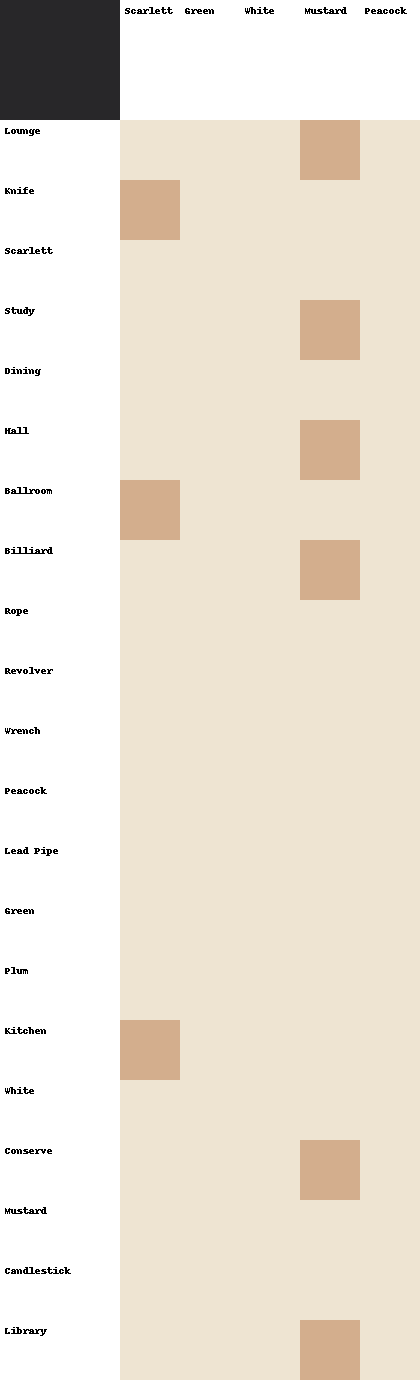
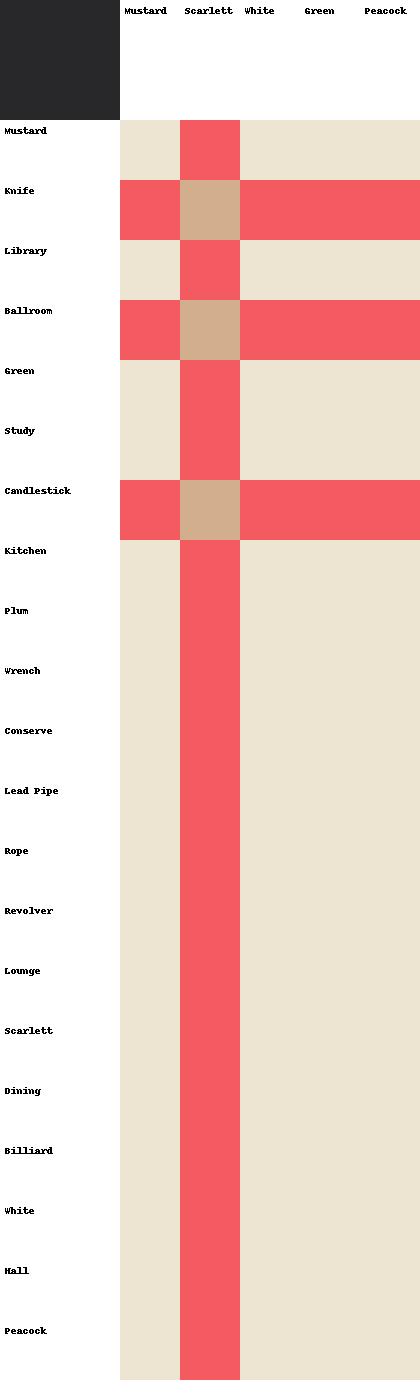
feat: add sidebar logic (treat as a hand, better input)

Changed region(s): [[0.2786, 0.0623, 1.0, 1.0], [0.7119, 0.9348, 0.8667, 1.0], [0.7119, 0.8101, 0.8667, 0.8725]]

diff --git a/detective_notes.py b/detective_notes.py
@@ -30,16 +30,23 @@ class DetectiveNotes(object):
         self.__notes = {
             player: {card: None for card in self.__cards} for player in self.__players
         }
+        # populate the sidebar with the initial data
+        self.__notes["Sidebar"] = {
+            card: card in self.__sidebar for card in self.__cards
+        }
 
     def denied_suggestion(self, player, suggestion):
         """
         Marks when a player denies a suggestion made by the CPU player.
+        NOTE: modifies the notes dictionary and thus calls __update.
 
         str player: player who denied the suggestion.
         (str, str, str) suggestion: suggestion made by the CPU player.
         """
         for card in suggestion:
             self.__notes[player][card] = False
+
+        self.__update()
 
     def draw(self, path=IMAGE_PATH):
         from PIL import Image, ImageDraw, ImageFont
@@ -168,11 +175,14 @@ class DetectiveNotes(object):
     def reveal_card(self, player, card):
         """
         Marks when a player's card is revealed.
+        NOTE: modifies the notes dictionary and thus calls __update.
 
         str player: player who revealed the card.
         str card: card that was revealed.
         """
         self.__notes[player][card] = True
+
+        self.__update()
 
     def __find_all_false(self, cards):
         """
@@ -254,7 +264,11 @@ class DetectiveNotes(object):
         """
         changes_made = False
         for player in self.__players:
-            if self.__notes[player].count(True) == self.__hand_size:
+            # count how many cards are True for the player
+            true_count = sum(
+                1 for card in self.__cards if self.__notes[player][card] is True
+            )
+            if true_count == self.__hand_size:
                 for card in self.__cards:
                     if self.__notes[player][card] is None:
                         self.__notes[player][card] = False

diff --git a/clue_algorithm.py b/clue_algorithm.py
@@ -24,14 +24,6 @@ class ClueAlgorithm(object):
         self.__ui = UI(self.__USER_COMMANDS)
         # get player order
         self.__player_order = self.__ui.game_order(self.__board.suspects())
-        # initialize detective notes object
-        self.__notes = DetectiveNotes(
-            self.__board.suspects(),
-            self.__board.weapons(),
-            self.__board.rooms(),
-            self.__player_order,
-            self.__ui.sidebar(self.__board.cards()),
-        )
 
         # get cpu player
         self.__cpu_player = self.__ui.cpu_player(self.__player_order)
@@ -39,6 +31,17 @@ class ClueAlgorithm(object):
         self.__hand = self.__ui.hand(
             self.__cpu_player, self.__player_order, self.__board.cards()
         )
+        sidebar_size = len(self.__board.cards()) % len(self.__player_order)
+
+        # initialize detective notes object
+        self.__notes = DetectiveNotes(
+            self.__board.suspects(),
+            self.__board.weapons(),
+            self.__board.rooms(),
+            self.__player_order,
+            self.__ui.sidebar(self.__board.cards(), self.__hand, sidebar_size),
+        )
+
         # populate detective notes with hand
         for card in self.__hand:
             self.__notes.reveal_card(self.__cpu_player, card)

diff --git a/user_interface.py b/user_interface.py
@@ -194,20 +194,21 @@ class UI(object):
             error_message="Invalid roll, must be 2-12.",
         )[0]
 
-    def sidebar(self, cards):
-        # TODO make it so that cards in the sidebar cannot be in the cpu hand
+    def sidebar(self, cards, cpu_hand, sidebar_size):
         """
         Asks the user for the side bar of the game.
 
         rtype {str}
         """
-        if input("Is there a side bar in the game? (y/n): ").lower() == "n":
+        if sidebar_size == 0:
             return None
+        # the cards must be in `cards` and not in `cpu_hand` and must be `len(sidebar_size)`
         return self.__get_validated_input(
-            input_prompt="Enter the side bar of the game: ",
+            input_prompt="Enter the cards in the sidebar: ",
             search_list=cards,
+            condition=lambda x: len(x) == sidebar_size,
             transform=lambda x: {item.strip() for item in x.split(",")},
-            error_message="Invalid side bar.",
+            error_message=f"Invalid side bar. Must be {sidebar_size} cards. And not in the CPU hand.",
         )
 
     def suggestion(self, cpu_player, suggestion, player_order):
